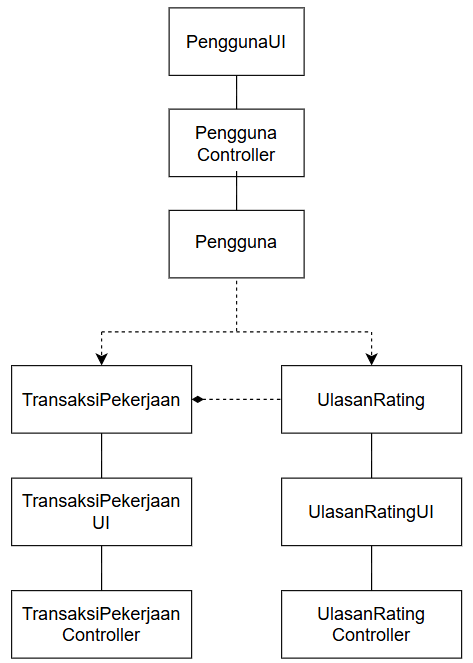
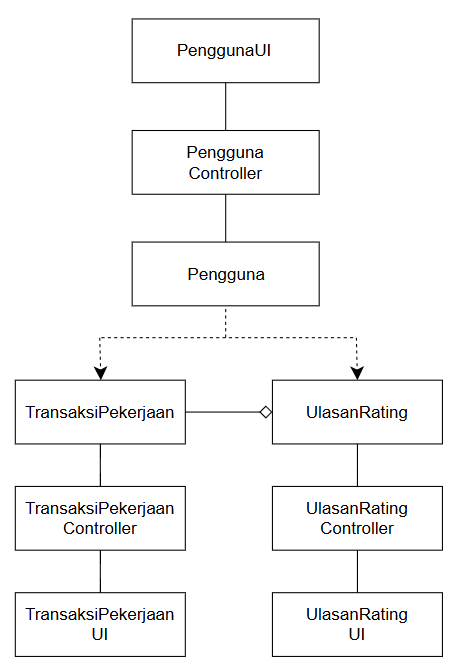
docs: fix UC09-UC12

diff --git a/docs/M4/K03_G06_CD.md b/docs/M4/K03_G06_CD.md
@@ -1046,7 +1046,7 @@ Buat diagram kelas untuk setiap use case pada 3.2.
 | :--- | :--- | :--- | :--- |
 | C01 | Pengguna | -idPengguna<br>-nama<br>-akumulasiRating | +berikanUlasan(idTransaksi, nilai, deskripsi) |
 | C07 | TransaksiPekerjaan | -idTransaksi<br>-statusPengerjaan | +cekStatusSelesai()<br>+validasiUlasanGanda() |
-| C11 | UlasanRating | -idUlasan<br>-idTransaksi<br>-nilai<br>-deskripsiUlasan | +simpanUlasan() |
+| C11 | UlasanRating | -idUlasan<br>-idTransaksi<br>-idPemberi<br>-idPenerima<br>-nilai<br>-deskripsiUlasan | +simpanUlasan() |
 | C16 | PenggunaUI | | +tampilkanMenuUlasan() |
 | C22 | TransaksiPekerjaanUI | | +tampilkanDetailTransaksi() |
 | C26 | UlasanRatingUI | | +tampilkanFormRating() |
